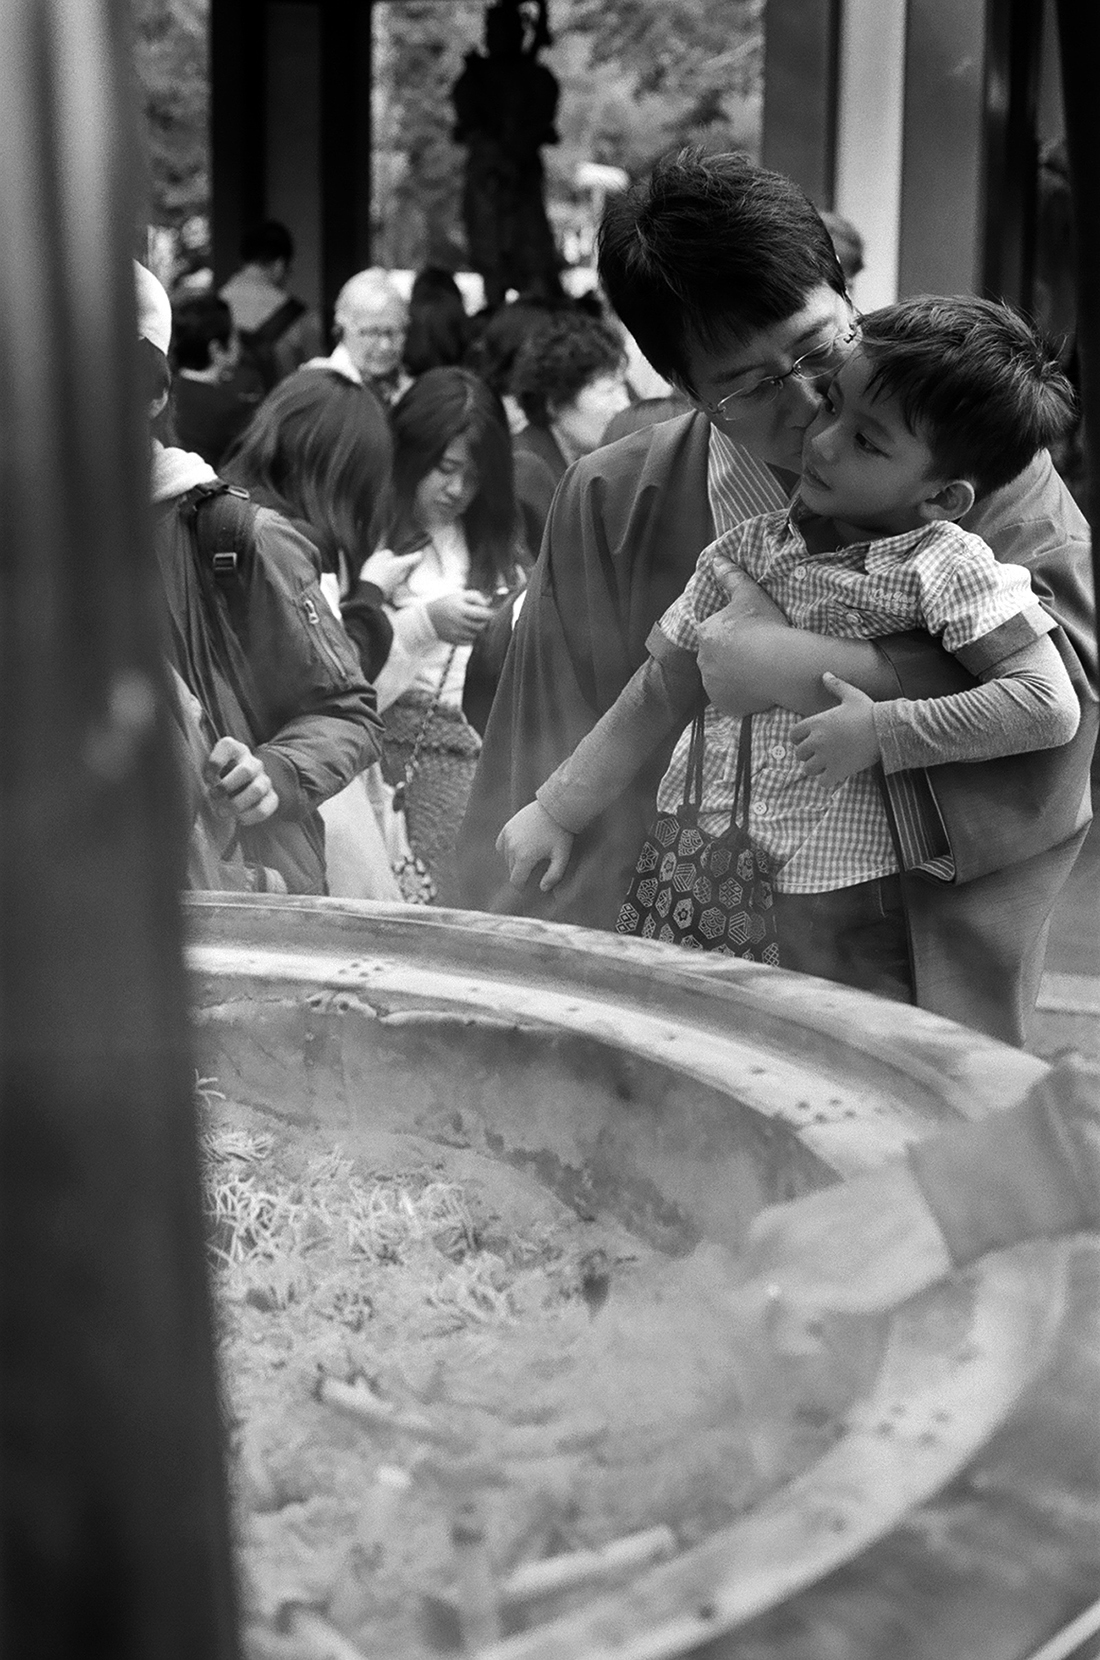
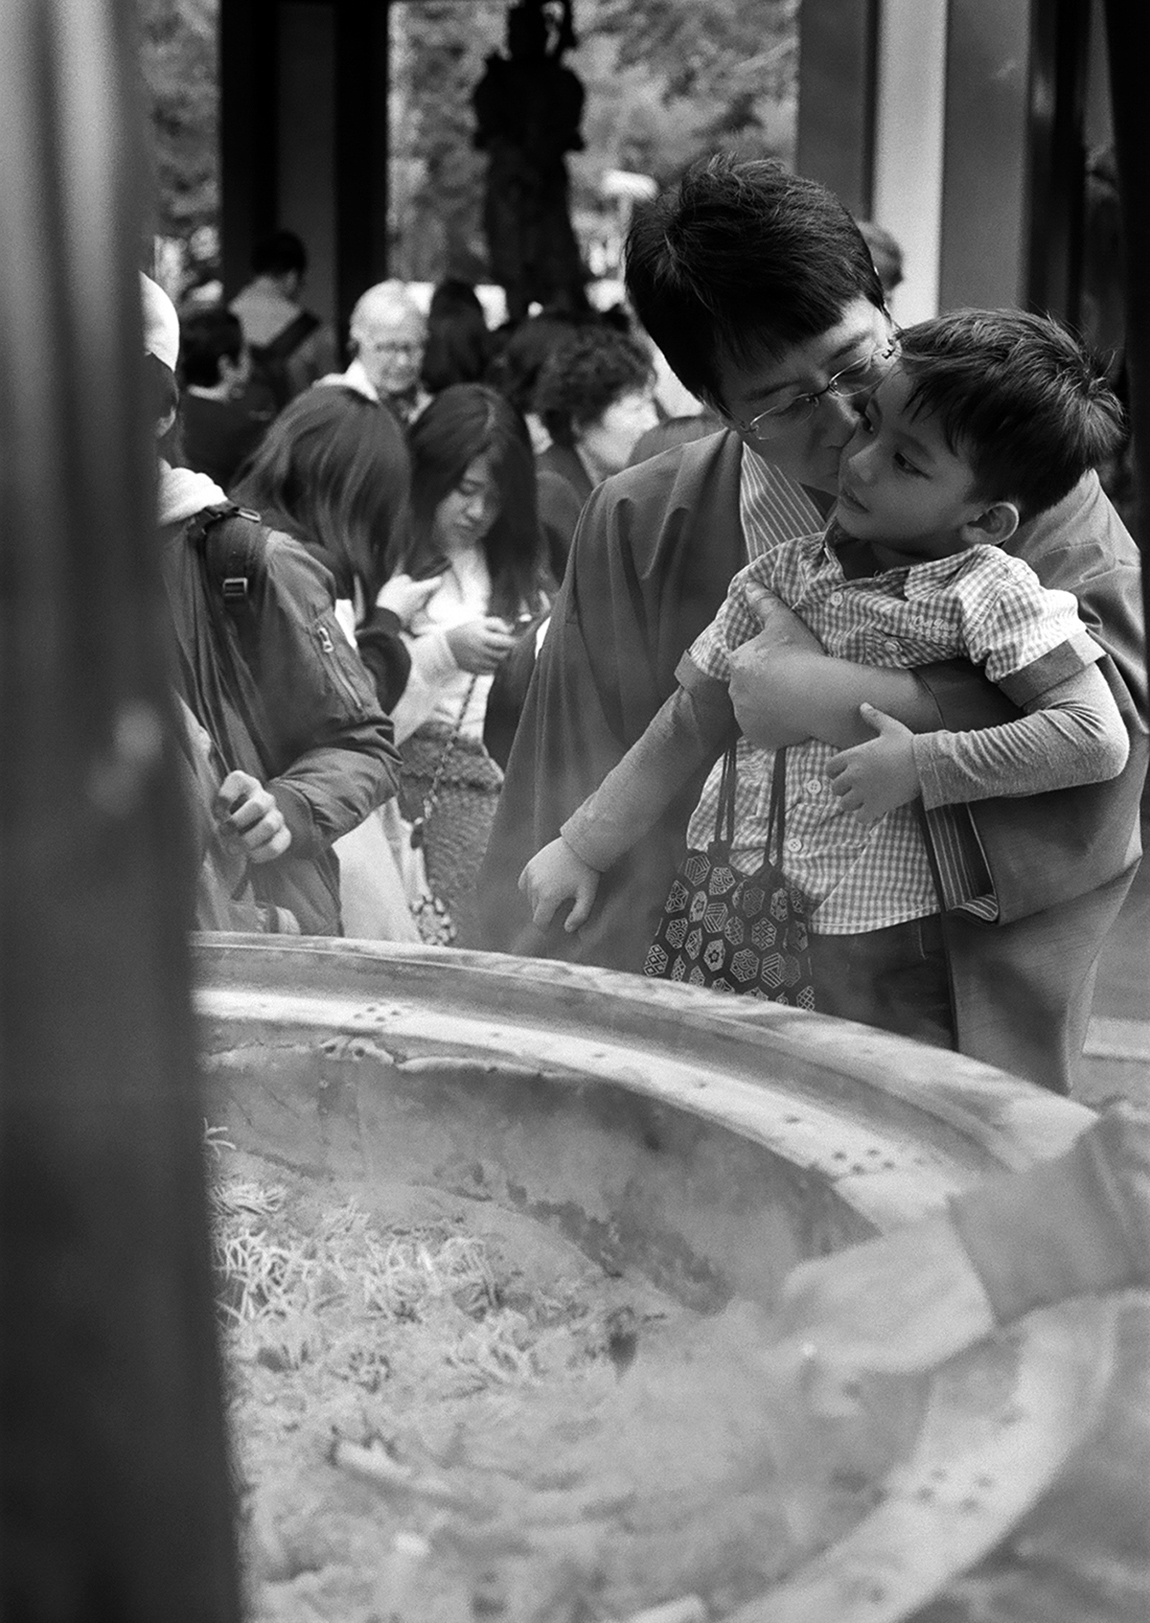
Asia Photo Edits

diff --git a/asia.html b/asia.html
@@ -165,7 +165,7 @@
                 <div id="hero-styles" class="parallax-onscroll opacity-onscroll">
                     <div id="hero-caption">
                         <div class="inner text-align-center">
-                        	<div class="hero-subtitle">Film Photography</div>
+                        	<div class="hero-subtitle">35mm Film Photography</div>
                             <div class="hero-title">Asia in Black and White</div>                                                    
                         </div>
                     </div>
